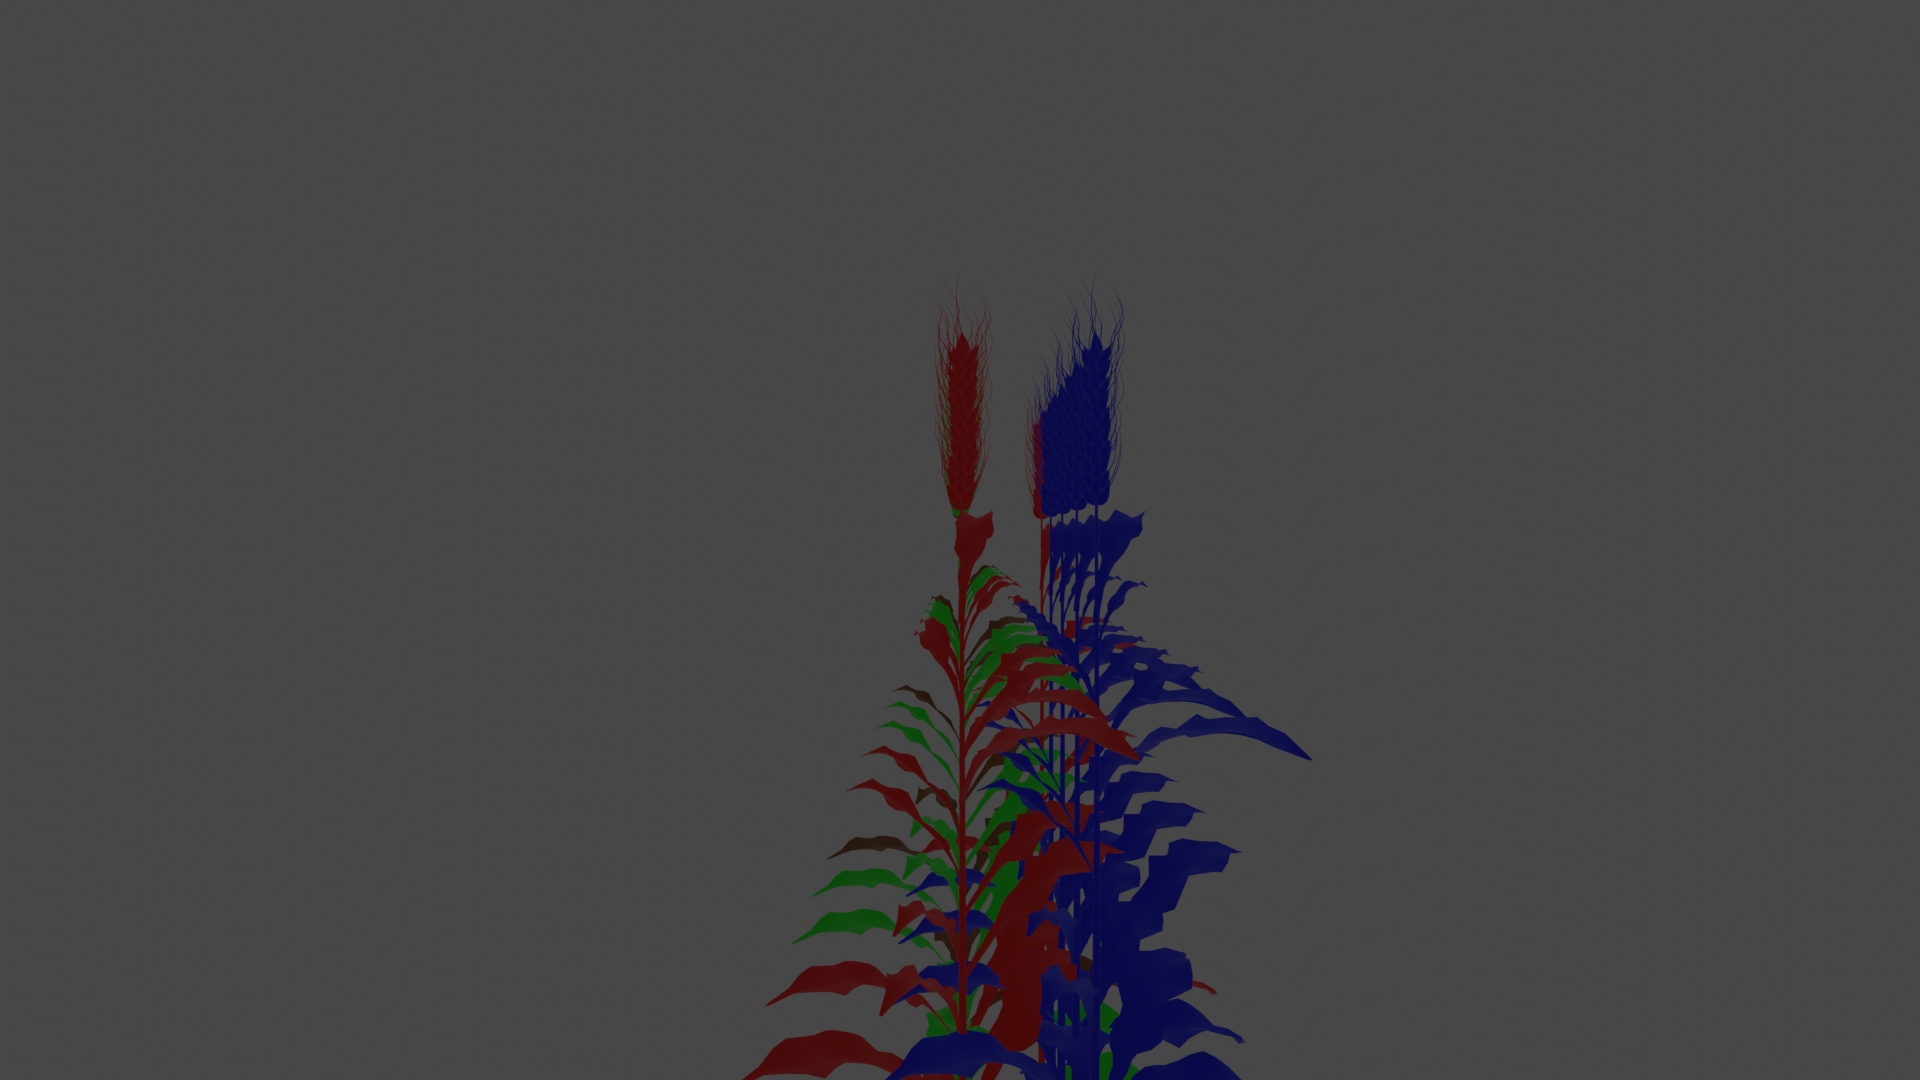
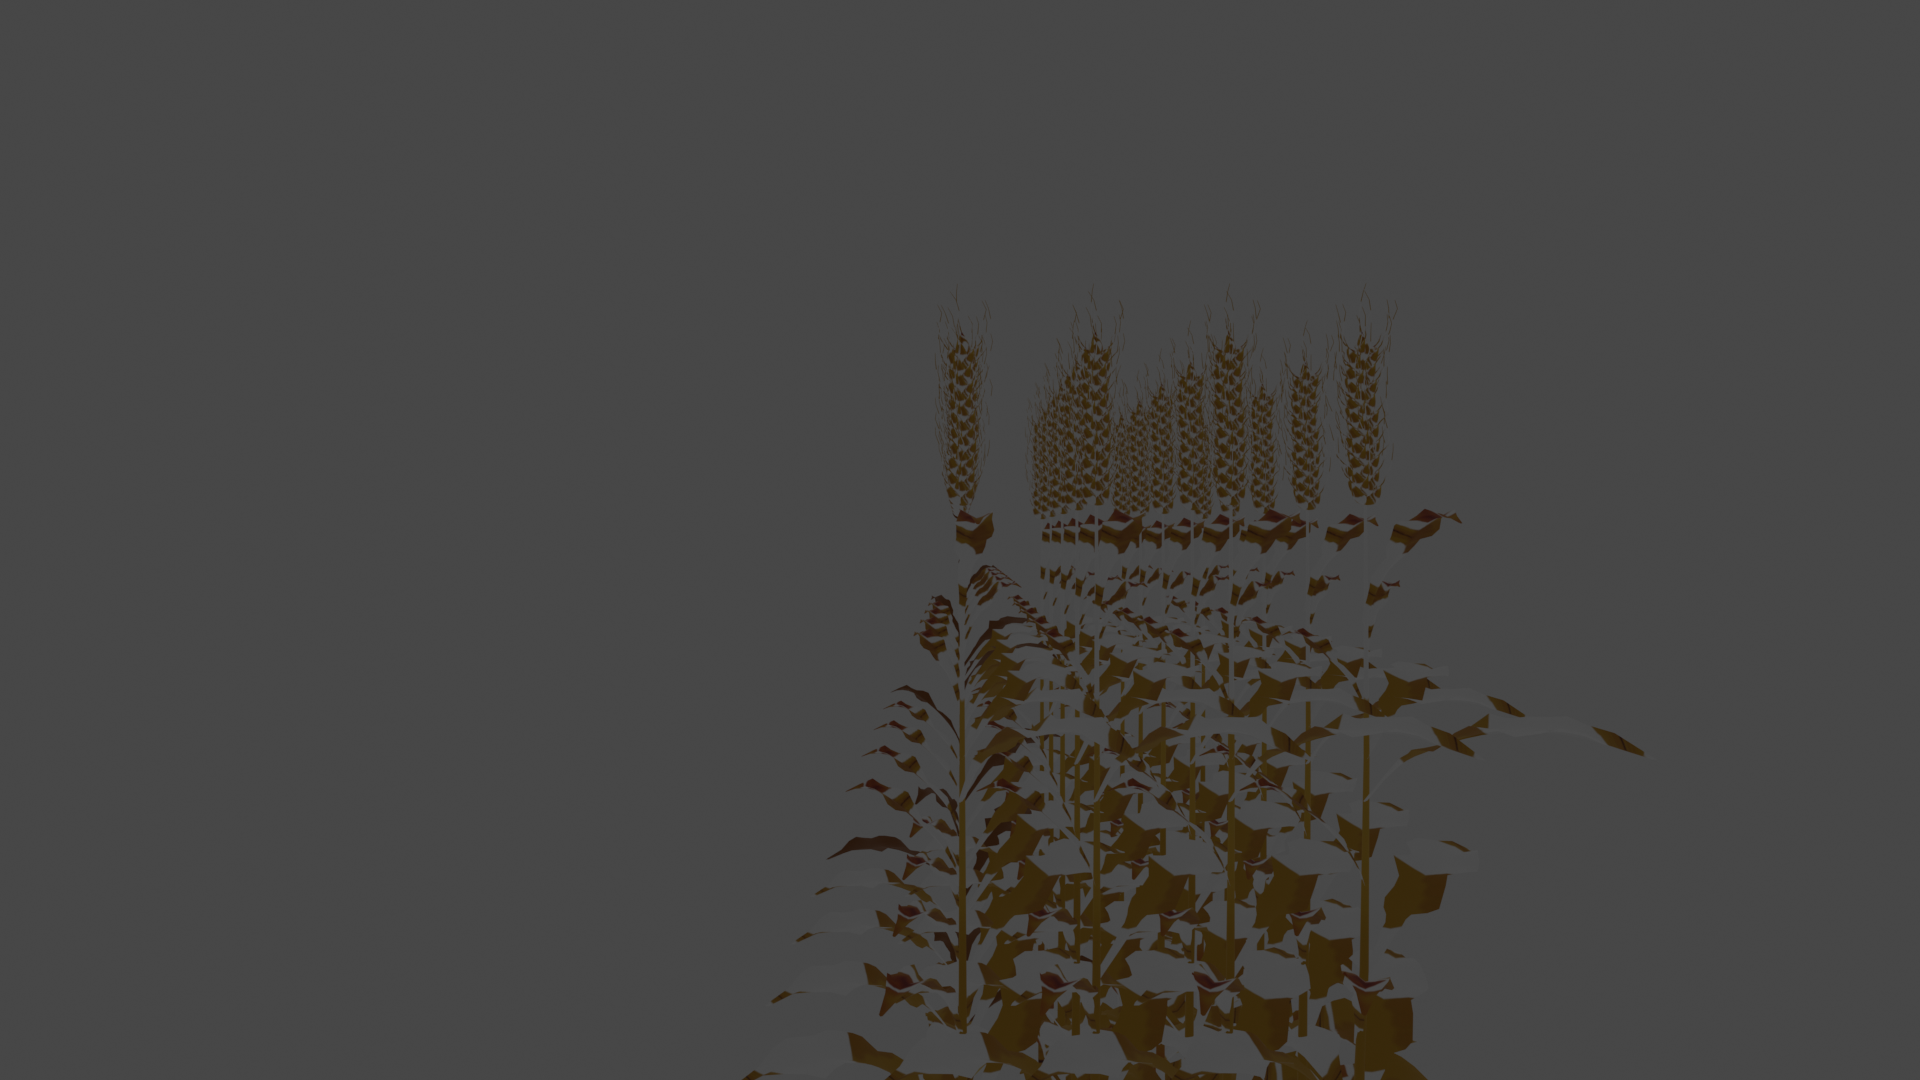
feat: added Blender textures

Changed region(s): [[0.375, 0.3056, 0.8125, 1.0], [0.8125, 0.6722, 0.875, 0.7028]]

diff --git a/src/controllers/crop_controller.py b/src/controllers/crop_controller.py
@@ -1,5 +1,6 @@
 import random
 import bpy
+import os
 
 class CropController:
 
@@ -76,16 +77,19 @@ class CropController:
         segmentation_id = 0
         if crop_type == "red":
             material = bpy.data.materials.new("Red")
-            material.diffuse_color = (1, 0, 0, 0.8)
             segmentation_id = 1
         elif crop_type == "green":
             material = bpy.data.materials.new("Green")
-            material.diffuse_color = (0, 1, 0, 0.8)
             segmentation_id = 2
         elif crop_type == "blue":
             material = bpy.data.materials.new("Blue")
-            material.diffuse_color = (0, 0, 1, 0.8)
             segmentation_id = 3
+        material.use_nodes = True
+        bsdf = material.node_tree.nodes["Principled BSDF"]
+        cwd = os.getcwd()
+        texture_image = material.node_tree.nodes.new("ShaderNodeTexImage")
+        texture_image.image = bpy.data.images.load(cwd+"\\src\\blender_assets\\textures\\textures\\texture5.jpg")
+        material.node_tree.links.new(bsdf.inputs["Base Color"], texture_image.outputs["Color"])
         return material, segmentation_id
 
     def add_crop(self, crop_size, loc_z, loc_x, loc_y):

diff --git a/src/renderers/scene_renderer.py b/src/renderers/scene_renderer.py
@@ -1,5 +1,6 @@
 import os
 import bpy
+import mathutils
 
 from controllers.segmentation import Segmentation
 
@@ -14,6 +15,7 @@ class SceneRenderer:
         bpy.data.collections[self.collection]
         scene = bpy.context.scene
         scene.camera = bpy.context.object
+
         bpy.context.scene.render.filepath = os.path.join(current_working_directory, self.output_file)
         bpy.ops.render.render(use_viewport=True, write_still=True)
 
